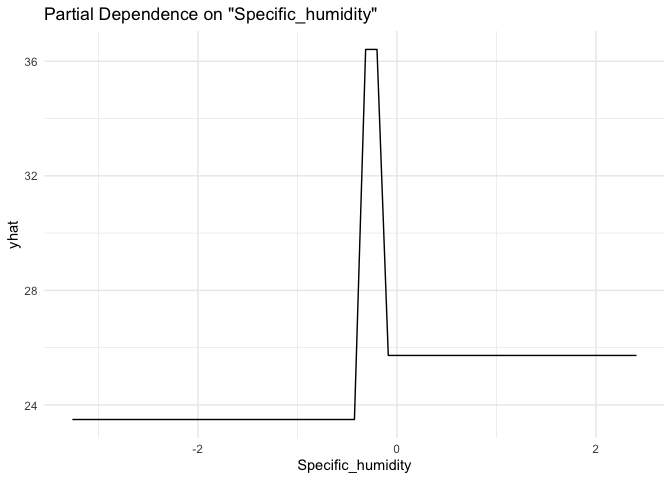
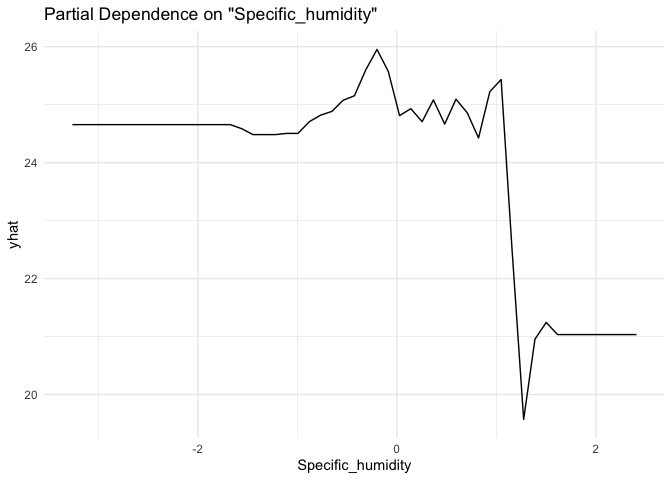
actual final markdown

diff --git a/excersises03.md b/excersises03.md
@@ -103,9 +103,10 @@ rate is 0.01; for poisson model, depth is 8 and shrinkage rate is 0.005.
 Then we use the test data to measure the performance for all these four
 models by RMSE.
 ![](excersises03_files/figure-markdown_strict/unnamed-chunk-6-1.png) The
-plot shows our CART model has the lowest RMSE. Finally, we make 3
-partial dependence plots for CART model: specific\_humidity,
+plot shows our GBDT Normal model has the lowest RMSE. We finish by
+making 3 partial dependence plots for the model: specific\_humidity,
 precipitation\_amt and tdtr\_k.
+
 ![](excersises03_files/figure-markdown_strict/unnamed-chunk-7-1.png)![](excersises03_files/figure-markdown_strict/unnamed-chunk-7-2.png)![](excersises03_files/figure-markdown_strict/unnamed-chunk-7-3.png)
 
 ## Predictive model building: green certification
@@ -175,8 +176,6 @@ with green\_ratings == 1 are more likely to be nicer overall! Our chosen
 model, however, is able to parse out a far more accurate revenue
 increase of LEED or EnergyStar certifications as $100 revenue/sqft/yr.
 
-    ## xgboost rsme: 789.7363
-
 ## Predictive model building: California housing
 
 *Your task is to build the best predictive model you can for
@@ -193,24 +192,23 @@ latitude (y). * *- a plot of your model’s errors/residuals (or log
 residuals) versus longitude (x) and latitude (y).*
 
 We first scale all data except the dependent variable and split the
-sample into train set and test set.
-
-Similar to last problem, we tried 6 models to predict the value for the
-median house value: a baseline linear model, lasso model with 2nd order
-interaction terms, KNN model, Random Forest model, GBDT model and
-XGBoost model. We first run the linear models.
+sample into train set and test set. Similar to last problem, we tried 6
+models to predict the value for the median house value: a baseline
+linear model, lasso model with 2nd order interaction terms, KNN model,
+Random Forest model, GBDT model and XGBoost model. We first run the
+linear models.
 
 Then we look at the KNN model and random forest model. We use CV to
 choose the best k for KNN model. For random forest model, we use 1000
 trees and choose mtry as default.
 
-We explore 2 boosted tree models here, GBDT and XGboost model. We first
-look at the GBDT model. We use CV to select the best interaction depth
-and shrinkage rate. We set the n.trees as 1000 since we think it’s
-sufficient large and we set the distribution as gaussian. Since the
-sample size is small, we set the n.minobsinnode to be 10.
+We explore 2 boosted tree models here, GBDT and XGboost model. Starting
+with GBDT, we use CV to select the best interaction depth and shrinkage
+rate. We set the n.trees as 1000 since we think it’s sufficient large
+and we set the distribution as gaussian. Since the sample size is small,
+we set the n.minobsinnode to be 10.
 
-Then we look at the XGBoost model. By CV we choose the these 3 best
+Then we look at the XGBoost model. By CV we choose the 3 best
 parameters: max\_depth, subsample and eta. After the cv selection, we
 run a loop through common parameter options to determine ‘best
 parameters’: max\_depth = 6 and nrounds = 10000.
